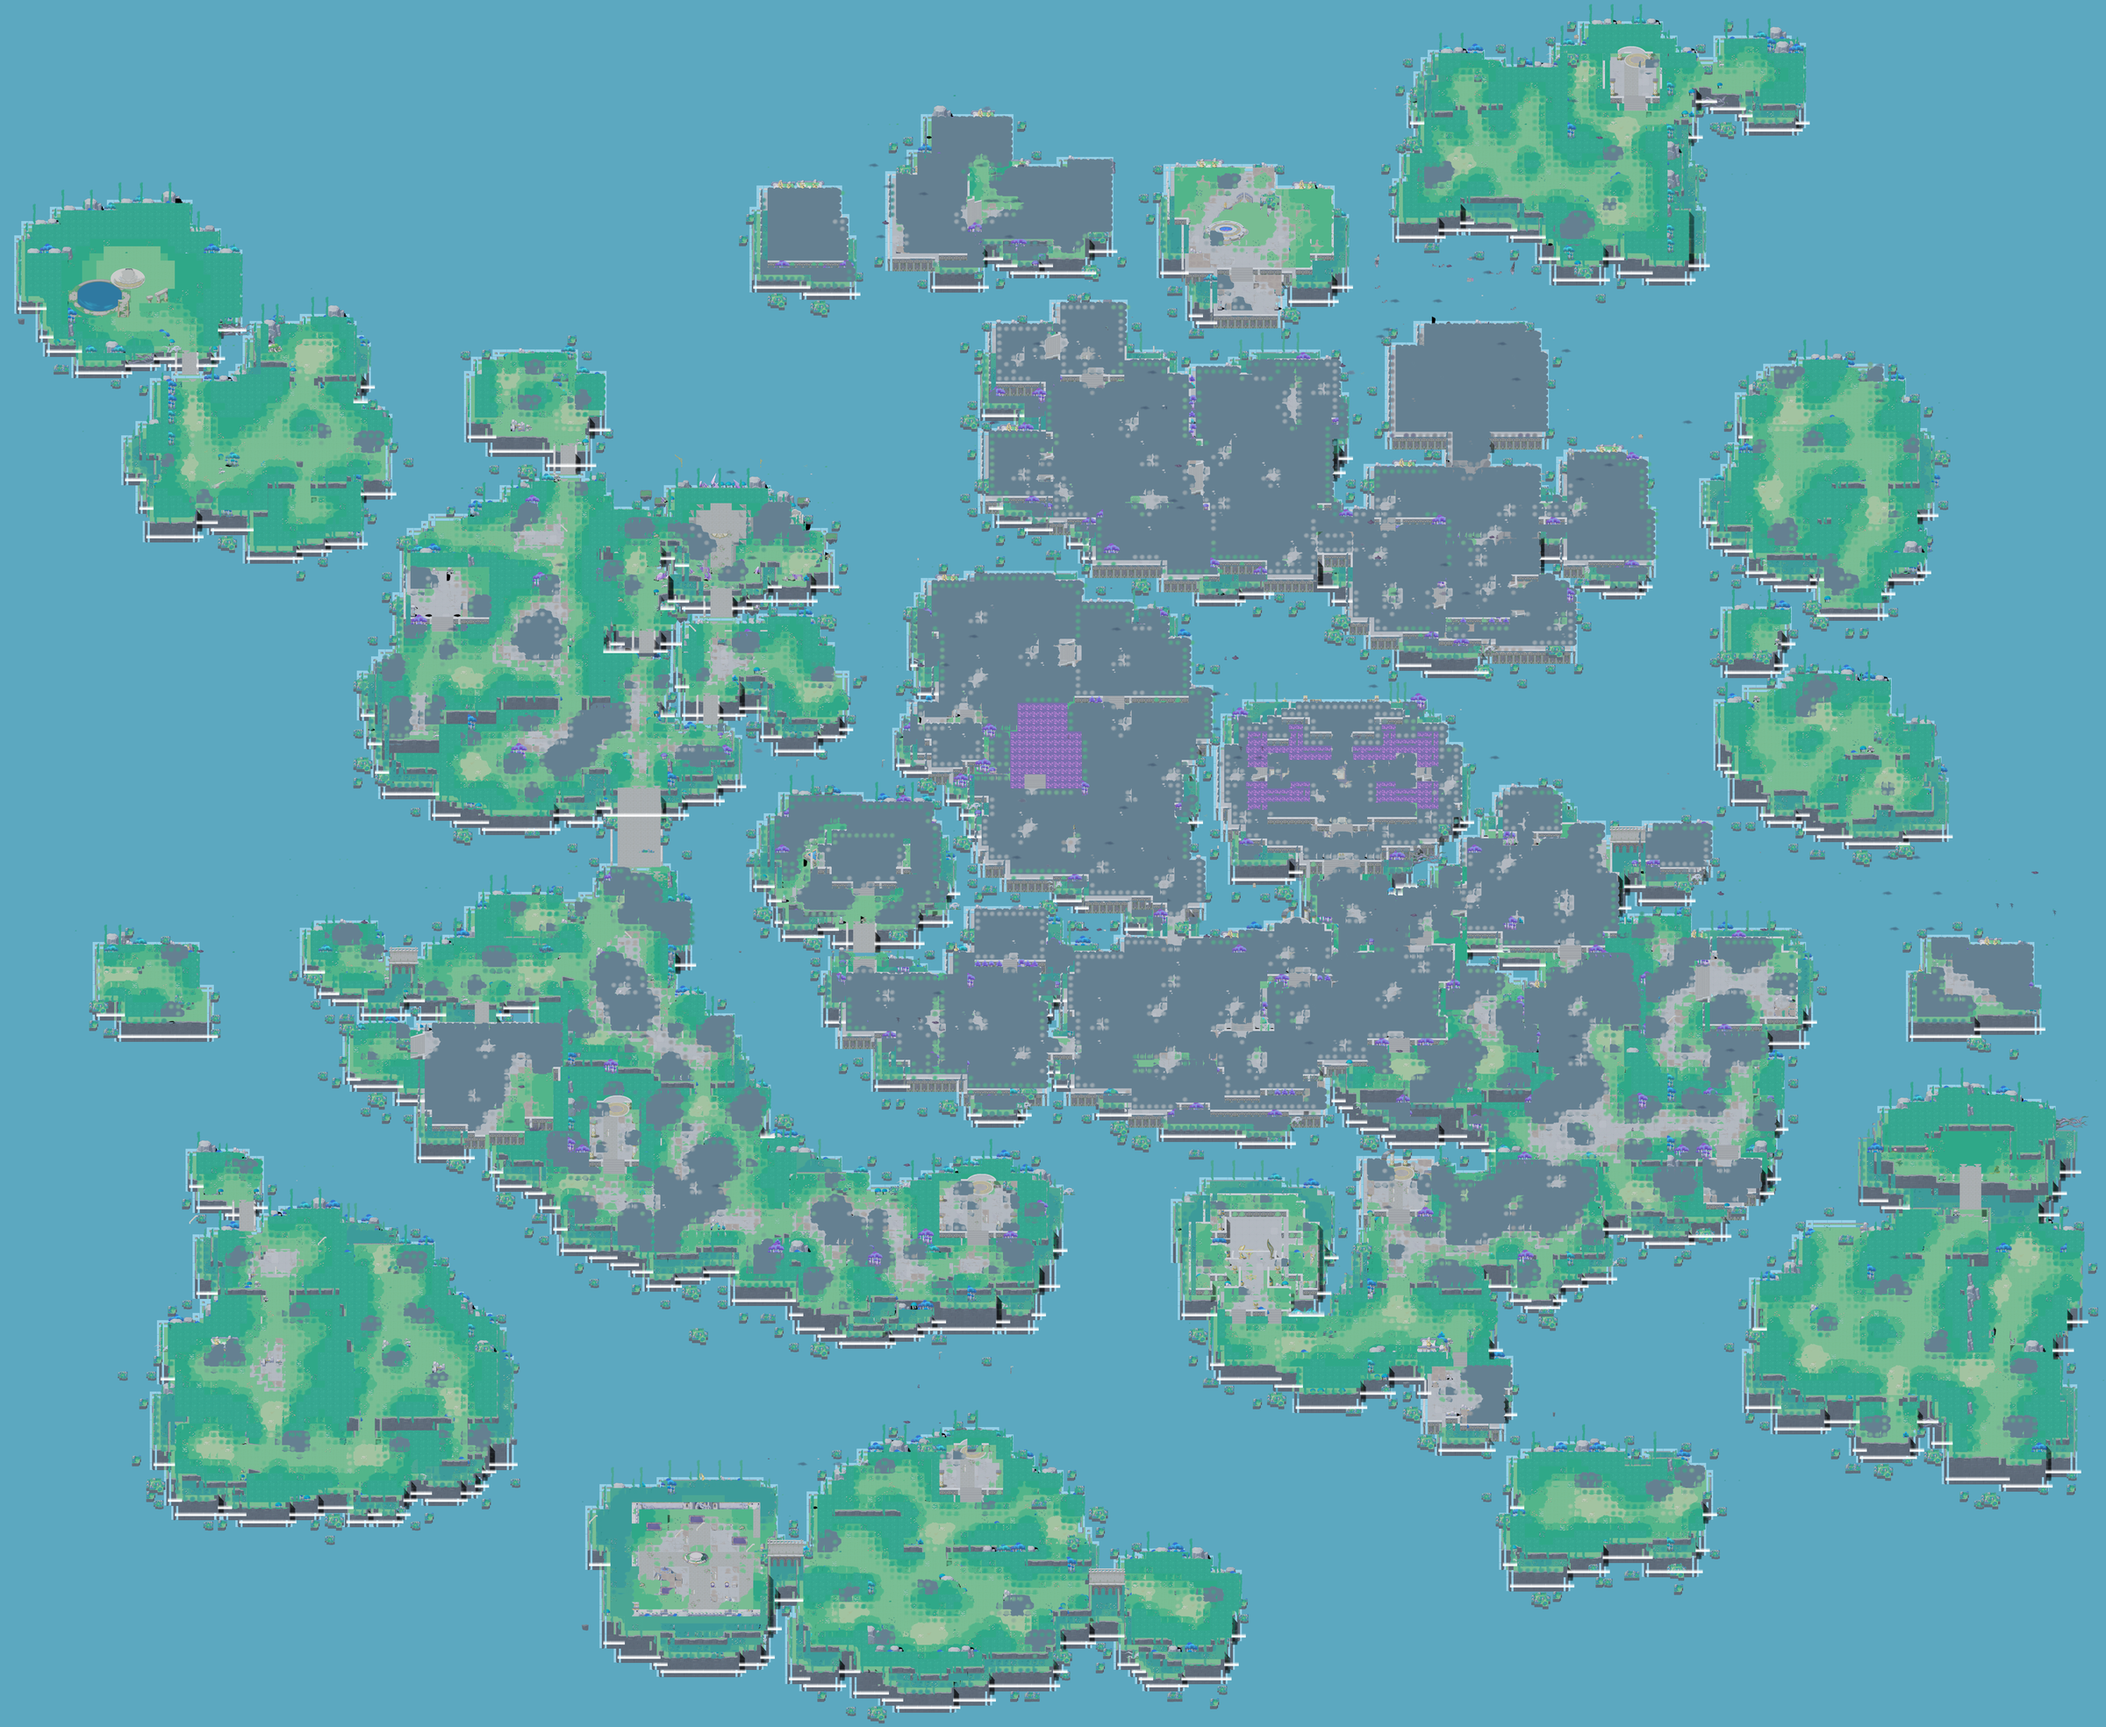
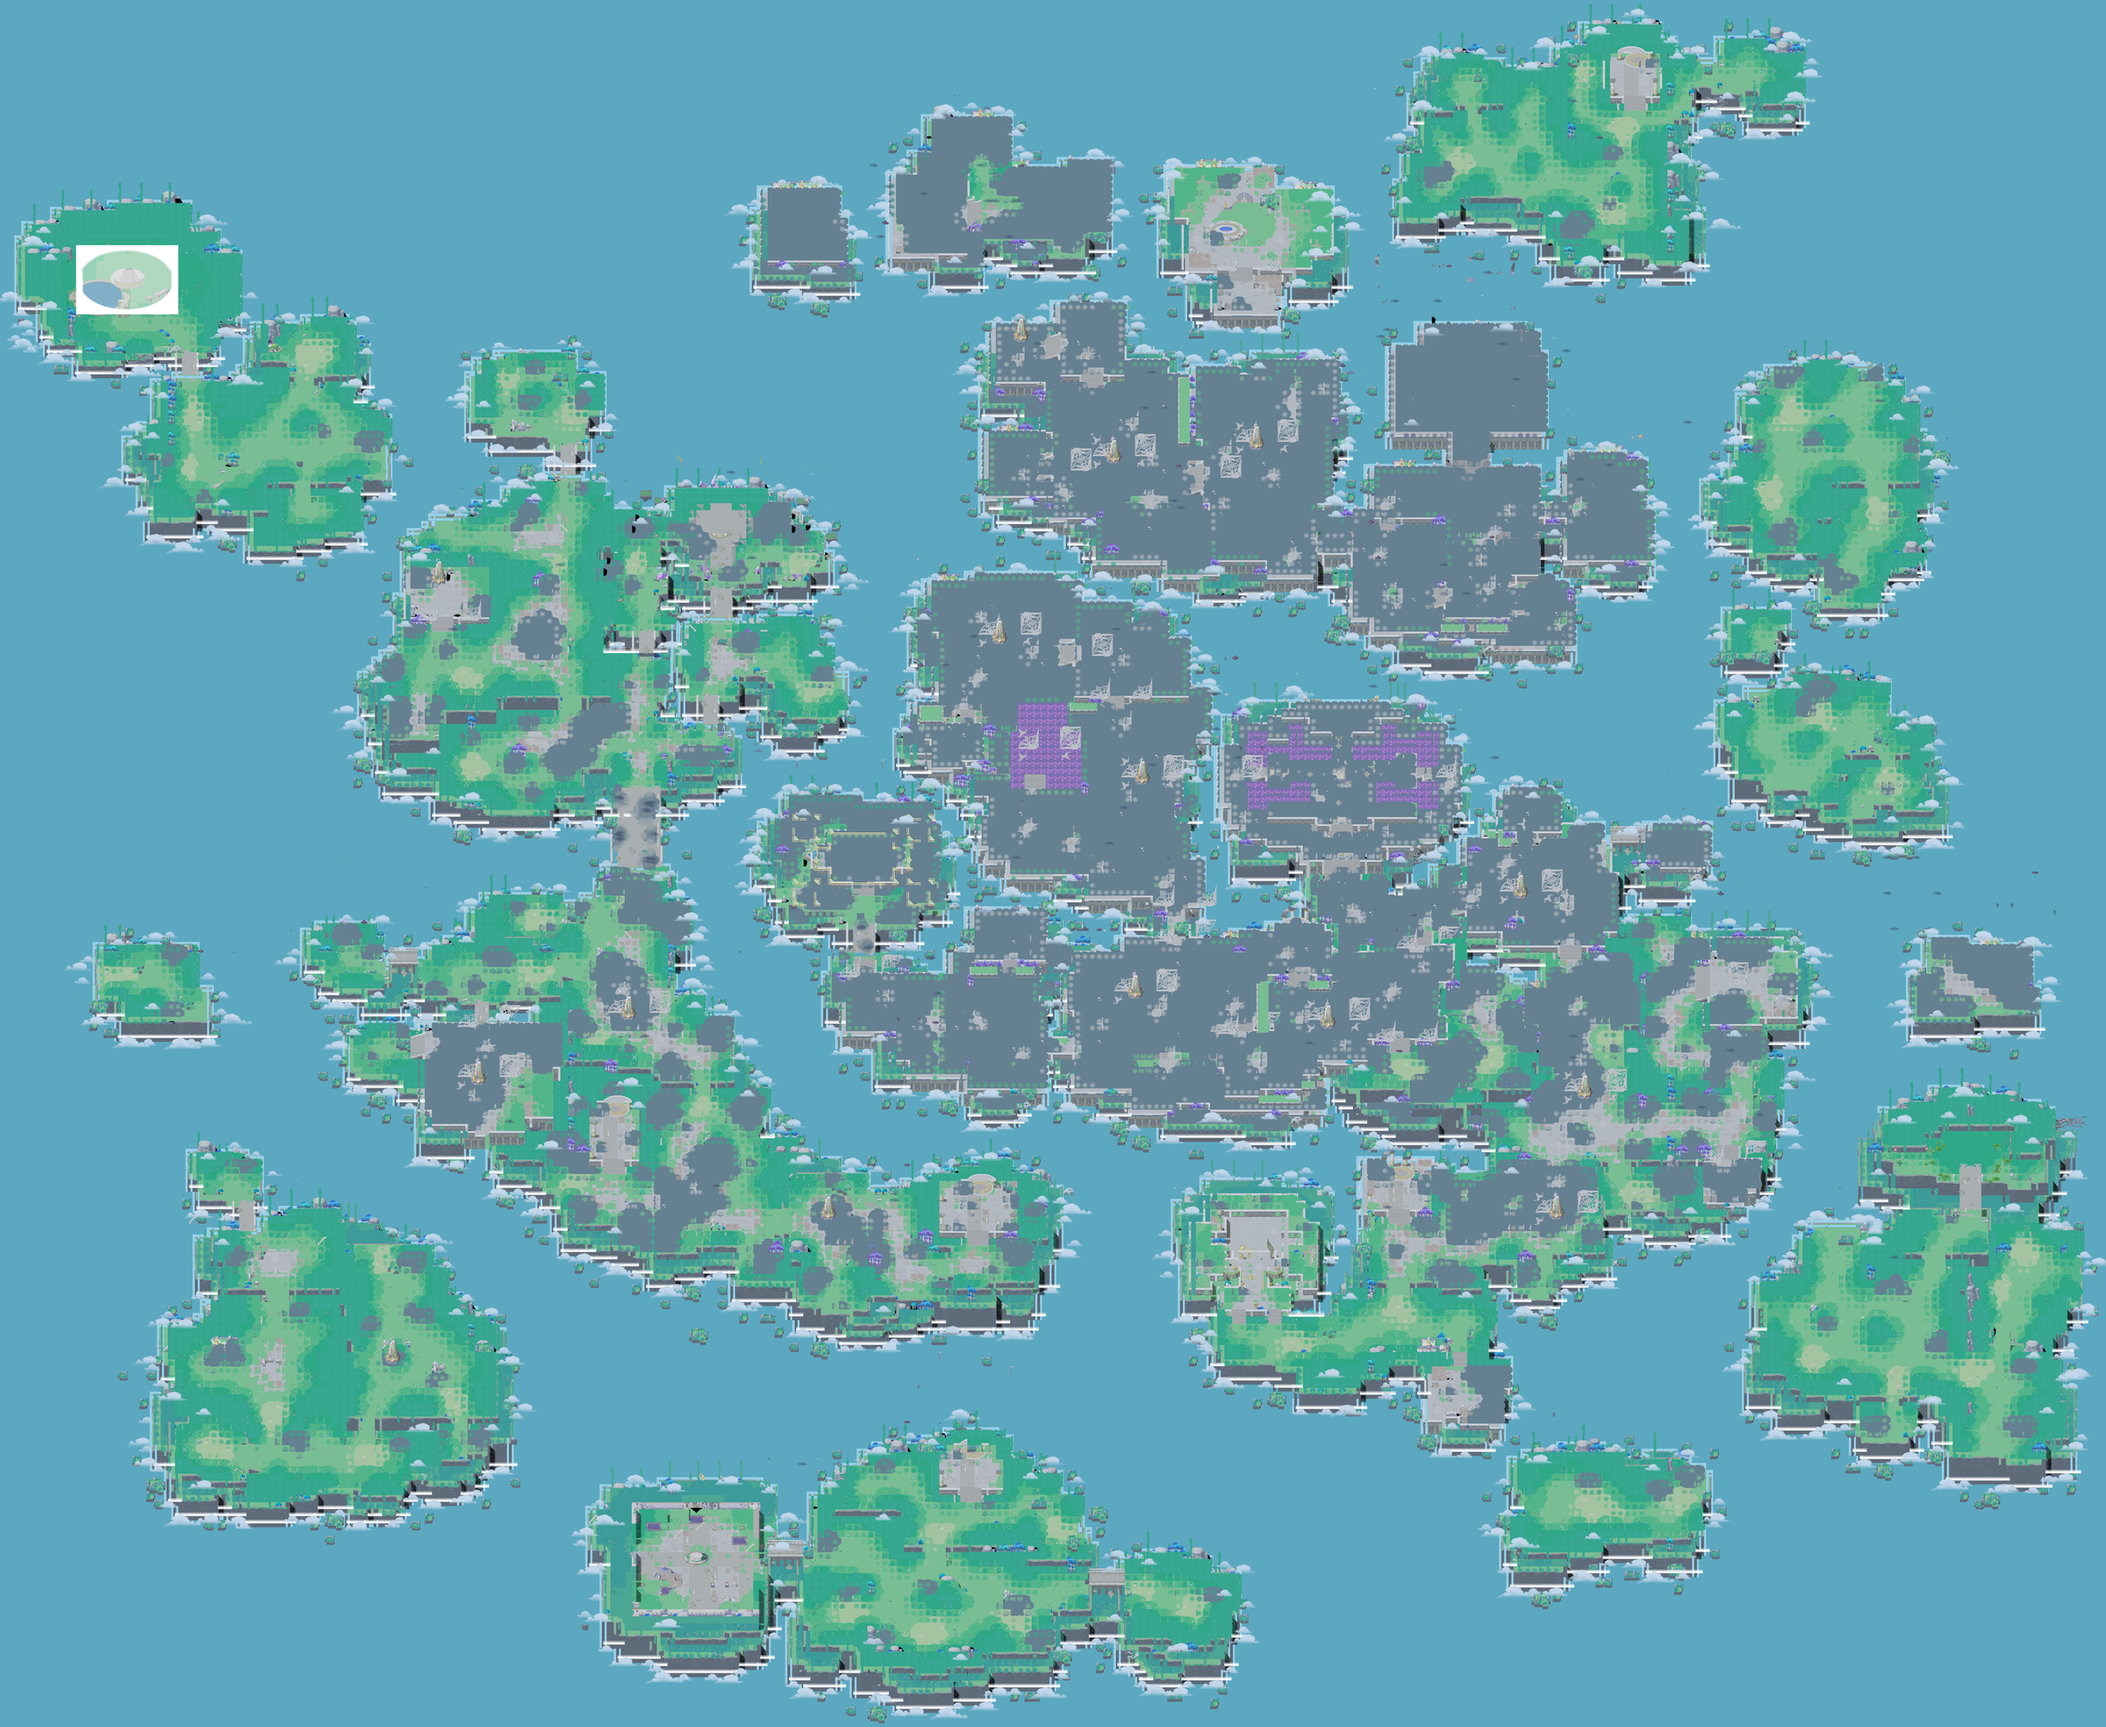
改进：烘图补 prefabs 场景装饰层（蘑菇屋/雕像/建筑群）+ 过滤解锁线/虚线/红点等 UI 标记（各图跳过 168~437 个）

diff --git a/tools/slg-maps/render-ground.py b/tools/slg-maps/render-ground.py
@@ -51,7 +51,7 @@ def main() -> None:
         raise SystemExit(f"Map{mid}: bare 无瓦片")
 
     # 植被瓦片 chunk（TileChunkData：Rug 地坪贴花/Highland 崖沿/UnderObject/Object·Dense_Object 树阵）
-    # ——地表丰富度与「林地」反分类的来源；跳过 Shadow（投影）与 prefabs 大装饰。
+    # ——地表丰富度与「林地」反分类的来源；跳过 Shadow（投影）。
     chunks = []
     chunks_env = None
     cfiles = []
@@ -64,7 +64,21 @@ def main() -> None:
         chunks = R.collect_tile_chunks(chunks_env)
         print(f"  瓦片chunk: {len(chunks)} 个（含变体层）")
 
-    # 画布范围：只取地表层（纯地表渲染不含装饰/chunk 的范围扩边）
+    # 场景装饰 prefabs（蘑菇屋/雕像/建筑群等组合 SpriteRenderer——大型场景件在此层；小怪是 EcEntity 不在此）
+    items = []
+    envs = [env]
+    for suffix in ("_prefabs.bundle", "_prefabs_n.bundle", "_extensions.bundle"):
+        f = R.bundle_files(f"{tag}{suffix}", have, dev)
+        if f:
+            e2 = R.Env(f)
+            envs.append(e2)
+            its = R.collect_renderers(e2)
+            for it in its:
+                it["env"] = e2
+            items += its
+    print(f"  装饰 prefabs: {len(items)} 个 SpriteRenderer")
+
+    # 画布范围：地表层 + prefabs 装饰（含 chunk 装饰时的范围扩边）
     xs, ys = [], []
     for _n, _f, t in tms:
         o, s = t["m_Origin"], t["m_Size"]
@@ -134,6 +148,34 @@ def main() -> None:
     # 1.5) 植被瓦片 chunk（Rug/Highland/Shadow/UnderObject/Object·Dense_Object——树阵/贴花/崖沿）
     if chunks_env is not None:
         R.draw_tile_chunks(canvas, chunks_env, chunks, to_px, px_per_unit, px_per_unit)
+
+    # 2) 场景装饰 prefabs（16 → 18，order 升序，y 降序；与游戏 SortingLayer 一致）
+    # 过滤 UI/标记件：解锁锁线(UnlockLock/UnlockLine)、虚线(xuxian)、红点标记(dot)——运行时由系统控制，不属地表
+    UI_MARKS = ("unlock", "xuxian", "dot")
+    items.sort(key=lambda i: (i["layer"], i["order"], -i["y"]))
+    n_draw = miss = skipped = 0
+    for it in items:
+        fid, spid = it["sp"][1], it["sp"][2]
+        obj = it["env"].resolve(it["sp"][0], fid, spid)
+        spname = ""
+        if obj is not None:
+            try:
+                spname = obj.read().m_Name.lower()
+            except Exception:
+                pass
+        if any(k in spname for k in UI_MARKS):
+            skipped += 1
+            continue
+        img, ppu, pivot = it["env"].sprite_image(*it["sp"])
+        if img is None:
+            miss += 1
+            continue
+        w = img.size[0] / ppu * it["sx"] * px_per_unit
+        h = img.size[1] / ppu * it["sy"] * px_per_unit
+        cx, cy = to_px(it["x"], it["y"])
+        R.draw_image(canvas, img, cx, cy, w, h, it["ang"], pivot)
+        n_draw += 1
+    print(f"  装饰: 绘制 {n_draw}（UI标记跳过 {skipped}，贴图缺失 {miss}）")
 
     out_dir = HERE / "out" / sys.argv[1]
     out_dir.mkdir(parents=True, exist_ok=True)
